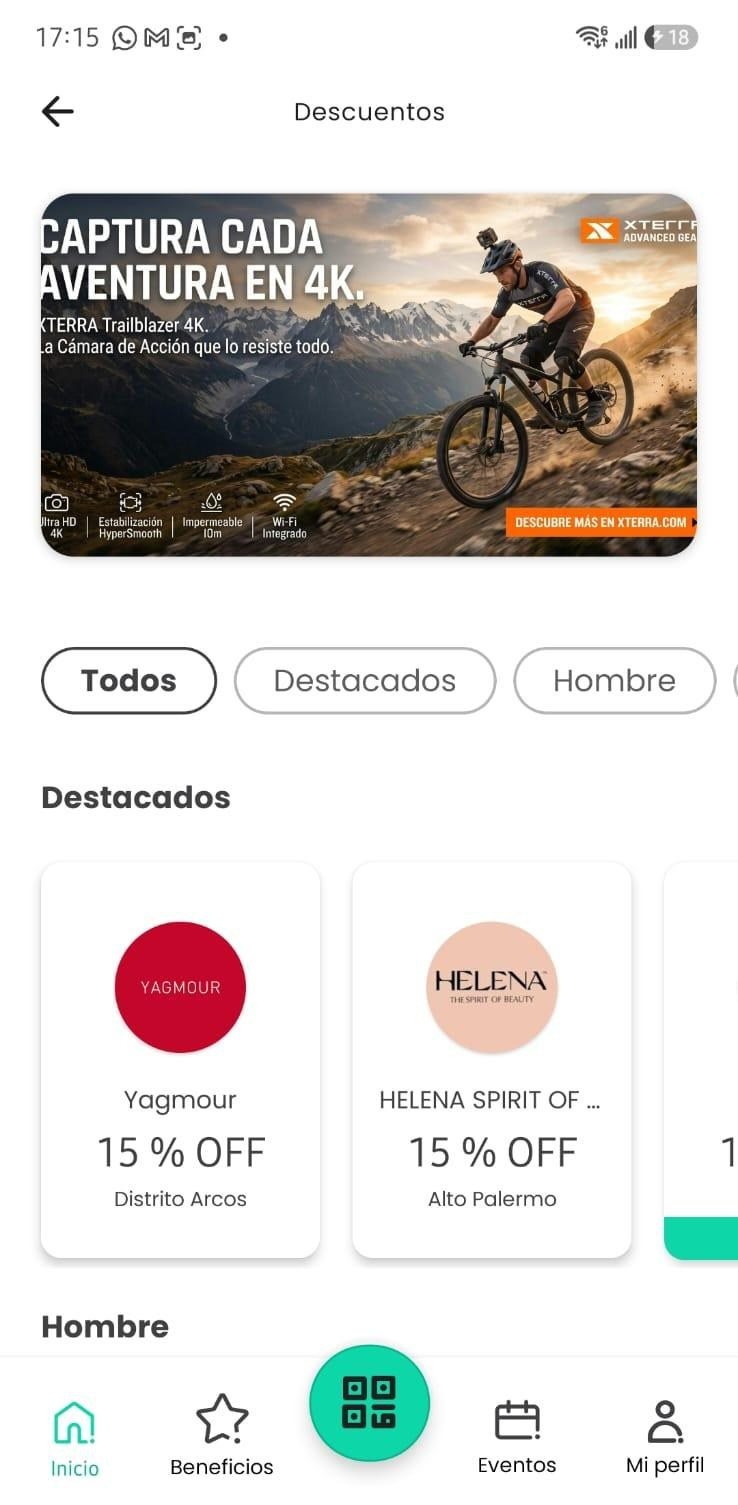
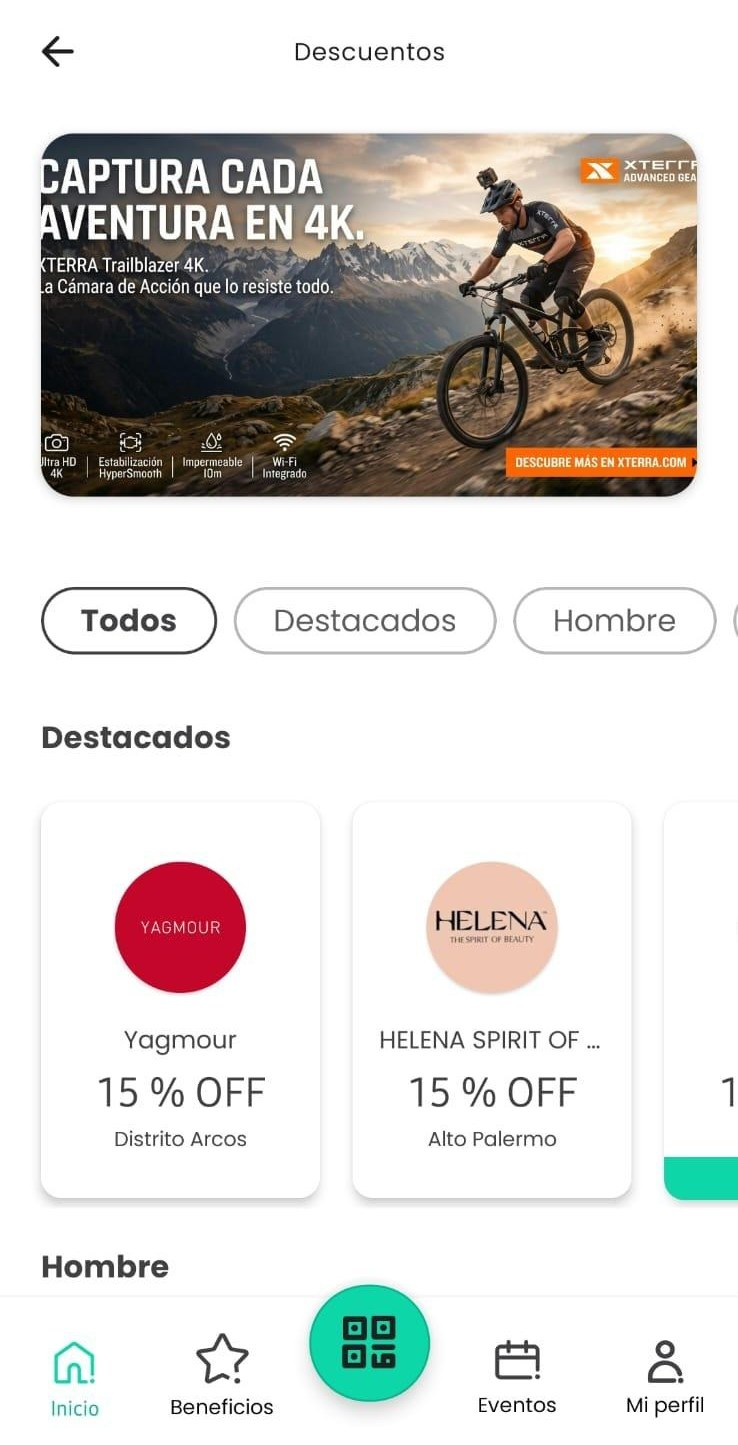
Celulares con barra de iPhone uniforme y home actual, métricas nuevas por formato, sin etiqueta en la portada corta
Claude-Session: https://claude.ai/code/session_01SNSFSWu5mFMrq8GXFHEFK4

diff --git a/app.js b/app.js
@@ -9,16 +9,16 @@
     { key: 'popup', tab: 'Pop-up', name: 'Banner Pop-up', where: 'In-app · al abrir la app', w: 960, h: 1398,
       demo: 'assets/creas/levis-popup.jpg', brand: "Levi's",
       desc: 'Aparece al iniciar sesión y se ve apenas el usuario entra a ¡appa! Se puede segmentar por shopping y por tipo de público.',
-      kpis: [['13.000', 'usuarios por día en promedio'], ['0,81%', 'CTR promedio'], ['1,5%', 'CTR viernes y sábados']],
+      kpis: [['12%', 'CTR: de cada 100 impresiones, 12 terminan en clic'], ['1,23', 'exposiciones promedio por usuario']],
       warn: 'Dejá libres los <b>últimos 240 px</b> de alto: ahí la app ubica su botón de acción.' },
     { key: 'home1', tab: 'Home Principal', name: 'Banner Home Principal', where: 'In-app · inicio', w: 1240, h: 598,
-      demo: '', brand: 'Under Armour', comm: 'Uso compartido: lo comercializan ¡appa! y los centros comerciales',
+      demo: '', brand: 'New Era', comm: 'Uso compartido: lo comercializan ¡appa! y los centros comerciales',
       desc: 'Es el primer impacto visual al abrir la aplicación, ideal para comunicaciones de alcance masivo. Segmentable por shopping y tipo de público.',
-      kpis: [['13.000', 'usuarios por día en promedio'], ['0,81%', 'CTR promedio'], ['1,5%', 'CTR viernes y sábados']] },
+      kpis: [['68.100', 'vistas mensuales promedio por banner']] },
     { key: 'home2', tab: 'Home Secundario', name: 'Banner Home Secundario', where: 'In-app · inicio (ex Home Spot)', w: 750, h: 174,
       demo: '', brand: '¡appa!', comm: 'Comercializado de forma exclusiva por ¡appa!',
       desc: 'Un espacio estratégico dentro del inicio de la app para diversificar la visibilidad de tu marca con un mensaje directo.',
-      kpis: [['13.000', 'usuarios ingresan a la app por día en promedio']] },
+      kpis: [['68.100', 'vistas mensuales promedio por banner']] },
     { key: 'mall', tab: 'Perfil Shopping', name: 'Banner Perfil Shopping Principal', where: 'In-app · perfil de cada shopping', w: 686, h: 196,
       demo: '', brand: 'Abasto Shopping', comm: 'Uso mayoritario de los centros comerciales',
       desc: 'Espacio en el perfil de cada shopping para destacar propuestas de valor, promociones exclusivas de sus locales o eventos en el lugar. Se segmenta según el público a impactar.',
@@ -34,14 +34,14 @@
     { key: 'parking', tab: 'Touch Point', name: 'Banner Parking · Touch Point', where: 'In-app · salida del estacionamiento', w: 694, h: 870,
       demo: 'assets/creas/lidherma.jpg', brand: 'Lidherma', comm: 'Comercializado de forma exclusiva por ¡appa!',
       desc: 'Aparece en la pantalla “¡Gracias por tu visita!”, cuando el usuario termina de pagar su ticket de estacionamiento. Aprovecha un alto tráfico de usuarios y genera una alta tasa de conversión.',
-      kpis: [] },
+      kpis: [['~322.000', 'impresiones potenciales por mes'], ['~10.700', 'impresiones por día'], ['Todos', 'los shoppings operados con ¡appa!']] },
     { key: 'push', tab: 'Notificación Push', name: 'Notificación Push', where: 'Fuera de la app · pantalla del celular', w: 0, h: 0, text: true,
       desc: 'Llega directo a la pantalla del celular, aunque el usuario no tenga la app abierta. Envíos a bases micro-segmentadas: hasta 30 caracteres de título y 90 de mensaje.',
-      kpis: [['2,2%', 'tasa de click'], ['450k → 16k', 'segmentación a medida']] },
+      kpis: [['80%', 'tasa de entrega a los dispositivos'], ['450k → 16k', 'segmentación a medida']] },
     { key: 'mail', tab: 'Mailing', name: 'Mailing', where: 'Fuera de la app · casilla de correo', w: 660, h: 0,
       demo: '', brand: 'Lidherma',
       desc: 'Envíos a usuarios de ¡appa! micro-segmentados por sus últimas transacciones. Ej.: usuarios que compraron en el shopping DOT en los últimos 3 meses.',
-      kpis: [['30%', 'open rate promedio (últimos 6 meses)']] }
+      kpis: [['6,89%', 'CTOR: de quienes abren el mail, hacen clic']] }
   ];
   const SOCIAL = [
     ['Instagram · Historia', 1080, 1920], ['Instagram · Posteo cuadrado', 1080, 1080], ['Instagram · Posteo vertical', 1080, 1350],
@@ -101,19 +101,23 @@
 
   // Captura real de la app con la pieza ubicada en su lugar exacto (posiciones en % de la captura)
   const shot = (img, slots) => `<div class="shot"><img src="assets/shots/${img}" alt="" class="shot-img">${slots}</div>`;
-  const HOME_MAIN = 'left:5.25%;top:15.5%;width:88.75%;height:19.7%';
+  const HOME_MAIN = 'left:5.03%;top:30.71%;width:89.95%;height:21.44%';
+  // barra de estado iPhone uniforme sobre cada captura (tapa la barra original)
+  const BAR = (bg, light = false) => `<div class="sbband" style="background:${bg}"></div>${SB(light, '9:41')}`;
+  const HOLA = '<div class="hola" style="top:1.88%;height:2.28%"><span>¡Hola!</span></div>';
 
   const notifCard = (t, b, when, cls = '') => `<div class="notif ${cls}"><img src="assets/img/app-icon.png" alt=""><div class="nt"><div class="nh"><b>¡appa!</b><span>${when}</span></div><b>${esc(t)}</b><p>${esc(b)}</p></div></div>`;
 
   const SCREENS = {
     home(hl) {
-      return `<div class="scr scr-white">${shot('home.jpg',
-        slot('home1', HOME_MAIN, 'r8' + (hl === 'home1' ? ' hl' : '')) +
-        slot('home2', 'left:5.25%;top:74.9%;width:88.75%;height:9.3%', 'r8' + (hl === 'home2' ? ' hl' : '')))}${HI}</div>`;
+      if (hl === 'home2') return `<div class="scr scr-white">${shot('home-old.jpg',
+        slot('home1', 'left:5.25%;top:9.80%;width:88.75%;height:21.03%', 'r8') +
+        slot('home2', 'left:5.25%;top:73.21%;width:88.75%;height:9.93%', 'r8 hl'))}${BAR('#fff')}${HI}</div>`;
+      return `<div class="scr scr-white">${shot('home.jpg', HOLA + slot('home1', HOME_MAIN, 'r12' + (hl === 'home1' ? ' hl' : '')))}${BAR('#fff')}${HI}</div>`;
     },
     popup() {
       const mine = !!state.pieces.popup;
-      return `<div class="scr scr-white">${shot('home.jpg', slot('home1', HOME_MAIN, 'r8'))}
+      return `<div class="scr scr-white">${shot('home.jpg', HOLA + slot('home1', HOME_MAIN, 'r12'))}${BAR('#fff')}
         <div class="dim"><div class="modal">
           ${slot('popup', 'position:relative;left:auto;top:auto;width:100%;aspect-ratio:960/1398', 'r0')}
           ${mine ? '<span class="modal-x">✕</span>' : ''}
@@ -121,13 +125,13 @@
         </div></div>${HI}</div>`;
     },
     mall() {
-      return `<div class="scr scr-white">${shot('perfil.jpg', slot('mall', 'left:5.6%;top:14.4%;width:88.8%;height:12.5%', 'r6 hl'))}${HI}</div>`;
+      return `<div class="scr scr-white">${shot('perfil.jpg', slot('mall', 'left:5.6%;top:12.06%;width:88.8%;height:12.84%', 'r6 hl'))}${BAR('#613089', true)}${HI}</div>`;
     },
     benef() {
-      return `<div class="scr scr-white">${shot('beneficios.jpg', slot('benef', 'left:3.5%;top:10.7%;width:87.2%;height:20.4%', 'r10 hl'))}${tabbar('ben')}${HI}</div>`;
+      return `<div class="scr scr-white">${shot('beneficios.jpg', slot('benef', 'left:3.5%;top:5.84%;width:87.2%;height:21.51%', 'r10 hl'))}${BAR('#fff')}${tabbar('ben')}${HI}</div>`;
     },
     desc() {
-      return `<div class="scr scr-white">${shot('descuentos.jpg', slot('desc', 'left:5.1%;top:12.75%;width:89.6%;height:24.5%', 'r10 hl'))}${HI}</div>`;
+      return `<div class="scr scr-white">${shot('descuentos.jpg', slot('desc', 'left:5.1%;top:9.13%;width:89.6%;height:25.52%', 'r10 hl'))}${BAR('#fff')}${HI}</div>`;
     },
     parking() {
       return `<div class="scr"><div class="tp">${SB(false, '9:41')}
@@ -141,7 +145,7 @@
       const d = new Date();
       const date = d.toLocaleDateString('es-AR', { weekday: 'long', day: 'numeric', month: 'long' });
       const t = state.pushT || PUSH_DEMO.t, b = state.pushB || PUSH_DEMO.b;
-      return `<div class="scr"><div class="lock">${SB(true, '')}
+      return `<div class="scr"><div class="lock">${SB(true, '9:41')}
         <div class="lock-date">${esc(date.charAt(0).toUpperCase() + date.slice(1))}</div>
         <div class="lock-time">${String(d.getHours()).padStart(2, '0')}:${String(d.getMinutes()).padStart(2, '0')}</div>
         ${notifCard(t, b, 'ahora')}
@@ -150,7 +154,7 @@
         </div>${HI}</div>`;
     },
     mail() {
-      return `<div class="scr">${shot('mail.jpg', slot('mail', 'left:6.7%;top:37.2%;width:86.7%;height:48.5%', 'mail-slot'))}${SB(false, '3:00')}${HI}</div>`;
+      return `<div class="scr">${shot('mail.jpg', slot('mail', 'left:6.7%;top:33.94%;width:86.7%;height:51.02%', 'mail-slot'))}${BAR('rgb(235,238,243)')}${HI}</div>`;
     }
   };
   const screenFor = { popup: 'popup', home1: 'home', home2: 'home', mall: 'mall', benef: 'benef', desc: 'desc', parking: 'parking', push: 'push', mail: 'mail' };

diff --git a/index.html b/index.html
@@ -17,7 +17,7 @@
 <link rel="preconnect" href="https://fonts.googleapis.com">
 <link rel="preconnect" href="https://fonts.gstatic.com" crossorigin>
 <link href="https://fonts.googleapis.com/css2?family=Poppins:wght@300;400;500;600;700;800;900&display=swap" rel="stylesheet">
-<link rel="stylesheet" href="styles.css?v=202610162002">
+<link rel="stylesheet" href="styles.css?v=202610201436">
 </head>
 <body>
 
@@ -57,8 +57,8 @@
     </div>
     <div class="hero-phone-wrap">
       <div class="phone phone-hero" id="heroPhone"></div>
-      <div class="float-chip chip-a">CTR hasta <b>1,5%</b> vie y sáb</div>
-      <div class="float-chip chip-b"><b>13.000</b> usuarios por día</div>
+      <div class="float-chip chip-a"><b>68.100</b> vistas mensuales por banner</div>
+      <div class="float-chip chip-b"><b>12%</b> de CTR en Pop-up</div>
     </div>
   </div>
 </section>
@@ -179,12 +179,12 @@
   </div>
   <div class="show-rail" id="showRail"></div>
   <div class="wrap">
-    <div class="kpis bento">
-      <div class="kpi"><b>13.000</b><span>usuarios ingresan en promedio por día</span></div>
-      <div class="kpi"><b>0,81%</b><span>CTR promedio de banners y pop-up</span></div>
-      <div class="kpi"><b>1,5%</b><span>CTR los viernes y sábados, los días de mayor actividad</span></div>
-      <div class="kpi"><b>2,2%</b><span>tasa de click en notificaciones push</span></div>
-      <div class="kpi"><b>30%</b><span>open rate promedio de mailing (últimos 6 meses)</span></div>
+    <div class="mx">
+      <div class="mx-card mx-hl"><span class="mx-k">Pop-up</span><b>12%</b><p>de CTR: de cada 100 impresiones, 12 terminan en clic</p><small>1,23 exposiciones promedio por usuario</small></div>
+      <div class="mx-card"><span class="mx-k">Banner in-app</span><b>68.100</b><p>vistas mensuales promedio por banner</p></div>
+      <div class="mx-card"><span class="mx-k">Touch Point</span><b>~322K</b><p>impresiones potenciales por mes</p><small>~10.700 por día · todos los shoppings</small></div>
+      <div class="mx-card"><span class="mx-k">Notificación push</span><b>80%</b><p>de tasa de entrega: llega a 8 de cada 10 dispositivos</p></div>
+      <div class="mx-card"><span class="mx-k">Mailing</span><b>6,89%</b><p>de CTOR: de quienes abren el mail, ese porcentaje hace clic</p></div>
     </div>
   </div>
 </section>
@@ -196,7 +196,7 @@
       <span class="eyebrow">Formato destacado</span>
       <h2>Pop-up: <span class="g">el primer impacto</span></h2>
       <p>Aparece en pantalla completa apenas el usuario abre ¡appa!: tu marca ocupa todo el protagonismo antes que cualquier otro contenido. Segmentable por shopping y por tipo de público.</p>
-      <div class="popsec-kpis"><div><b>960 × 1398 px</b><span>medida de la pieza</span></div><div><b>1,5%</b><span>CTR viernes y sábados</span></div></div>
+      <div class="popsec-kpis"><div><b>960 × 1398 px</b><span>medida de la pieza</span></div><div><b>12%</b><span>de CTR</span></div><div><b>1,23</b><span>exposiciones por usuario</span></div></div>
       <div class="note-pop">
         <b>Importante: zona del botón</b>
         <p>La app ubica su botón de acción sobre la parte inferior de la pieza. Dejá libres los últimos <b>240 px</b> de alto (de los 1398 px): no pongas ahí textos, logos ni información clave.</p>
@@ -433,6 +433,6 @@
 </footer>
 
 <div class="toast" id="toast" role="status" aria-live="polite"></div>
-<script src="app.js?v=202610162002"></script>
+<script src="app.js?v=202610201436"></script>
 </body>
 </html>

diff --git a/resumen/index.html b/resumen/index.html
@@ -18,7 +18,7 @@
 <link rel="preconnect" href="https://fonts.googleapis.com">
 <link rel="preconnect" href="https://fonts.gstatic.com" crossorigin>
 <link href="https://fonts.googleapis.com/css2?family=Poppins:wght@300;400;500;600;700;800;900&display=swap" rel="stylesheet">
-<link rel="stylesheet" href="styles.css?v=202610162002">
+<link rel="stylesheet" href="styles.css?v=202610201436">
 </head>
 <body class="short">
 
@@ -40,7 +40,6 @@
   <div class="hero-bg" aria-hidden="true"></div>
   <div class="wrap hero-in">
     <div class="hero-copy">
-      <span class="pill pill-green">Media Kit · Resumen</span>
       <h1><img class="hero-logo" src="assets/img/logo-appa-white.png" alt="¡appa!"> <span>ADS</span></h1>
       <p class="hero-lead">Mostrá tu marca a los clientes de <strong>17 shoppings</strong>, dentro de la app que usan en cada visita.</p>
       <div class="hero-ctas">
@@ -50,8 +49,8 @@
     </div>
     <div class="hero-phone-wrap">
       <div class="phone phone-hero" id="heroPhone"></div>
-      <div class="float-chip chip-a">CTR hasta <b>1,5%</b> vie y sáb</div>
-      <div class="float-chip chip-b"><b>13.000</b> usuarios por día</div>
+      <div class="float-chip chip-a"><b>68.100</b> vistas mensuales por banner</div>
+      <div class="float-chip chip-b"><b>12%</b> de CTR en Pop-up</div>
     </div>
   </div>
 </section>
@@ -95,12 +94,12 @@
   </div>
   <div class="show-rail" id="showRail"></div>
   <div class="wrap">
-    <div class="kpis bento kpis-short">
-      <div class="kpi"><b>13.000</b><span>usuarios ingresan en promedio por día</span></div>
-      <div class="kpi"><b>0,81%</b><span>CTR promedio de banners y pop-up</span></div>
-      <div class="kpi"><b>1,5%</b><span>CTR los viernes y sábados, los días de mayor actividad</span></div>
-      <div class="kpi"><b>2,2%</b><span>tasa de click en notificaciones push</span></div>
-      <div class="kpi"><b>30%</b><span>open rate promedio de mailing (últimos 6 meses)</span></div>
+    <div class="mx">
+      <div class="mx-card mx-hl"><span class="mx-k">Pop-up</span><b>12%</b><p>de CTR: de cada 100 impresiones, 12 terminan en clic</p><small>1,23 exposiciones promedio por usuario</small></div>
+      <div class="mx-card"><span class="mx-k">Banner in-app</span><b>68.100</b><p>vistas mensuales promedio por banner</p></div>
+      <div class="mx-card"><span class="mx-k">Touch Point</span><b>~322K</b><p>impresiones potenciales por mes</p><small>~10.700 por día · todos los shoppings</small></div>
+      <div class="mx-card"><span class="mx-k">Notificación push</span><b>80%</b><p>de tasa de entrega: llega a 8 de cada 10 dispositivos</p></div>
+      <div class="mx-card"><span class="mx-k">Mailing</span><b>6,89%</b><p>de CTOR: de quienes abren el mail, ese porcentaje hace clic</p></div>
     </div>
   </div>
 </section>
@@ -199,6 +198,6 @@
 </footer>
 
 <div class="toast" id="toast" role="status" aria-live="polite"></div>
-<script src="app.js?v=202610162002"></script>
+<script src="app.js?v=202610201436"></script>
 </body>
 </html>

diff --git a/styles.css b/styles.css
@@ -753,3 +753,27 @@ a.eco-i{color:inherit}
 .notif.big>.nt>b{font-size:16px;margin-bottom:2px}
 .notif.big p{font-size:14.5px;-webkit-line-clamp:unset;display:block}
 .spec-v.na{white-space:normal;text-align:right}
+
+/* barra de estado uniforme + saludo genérico */
+.sbband{position:absolute;left:0;right:0;top:0;z-index:24}
+.hola{position:absolute;left:13%;top:8.3%;width:40%;height:3.4%;background:#fff;z-index:3;display:flex;align-items:center}
+.hola span{font-weight:600;font-size:calc(var(--pw) * .052);color:#1cca99;line-height:1}
+
+/* métricas por formato */
+.mx{display:grid;grid-template-columns:repeat(6,1fr);gap:14px;margin-top:10px}
+.mx-card{grid-column:span 2;border-radius:24px;padding:24px;background:linear-gradient(160deg,rgba(255,255,255,.07),rgba(255,255,255,.015));border:1px solid var(--line);display:flex;flex-direction:column;transition:transform .3s,border-color .3s}
+.mx-card:nth-child(n+4){grid-column:span 3}
+.mx-card:hover{transform:translateY(-4px);border-color:rgba(13,214,168,.5)}
+.mx-k{font-size:12px;font-weight:700;letter-spacing:.12em;text-transform:uppercase;color:var(--green);margin-bottom:12px}
+.mx-card b{font-size:clamp(40px,4.4vw,58px);font-weight:800;line-height:1;letter-spacing:-.03em}
+.mx-card p{font-size:15px;color:#d8e4e0;margin-top:8px;line-height:1.45}
+.mx-card small{margin-top:auto;padding-top:14px;font-size:13px;color:#9fb0ab}
+.mx-hl{background:linear-gradient(135deg,#0f5a48,#0DD6A8);border-color:transparent}
+.mx-hl .mx-k{color:#063b2f}.mx-hl p{color:#eafff9}.mx-hl small{color:#d2fff2}
+@media (max-width:860px){.mx{grid-template-columns:1fr 1fr}.mx-card,.mx-card:nth-child(n+4){grid-column:span 1}.mx-card:first-child{grid-column:1/-1}}
+@media (max-width:560px){.mx{grid-template-columns:1fr}.mx-card:first-child{grid-column:auto}}
+/* capturas debajo de la barra de estado uniforme */
+.shot{position:absolute;left:0;right:0;top:44px;bottom:auto}
+.sbband{height:44px}
+.hola{left:12.8%;width:42%}
+.shot .hola{position:absolute}
